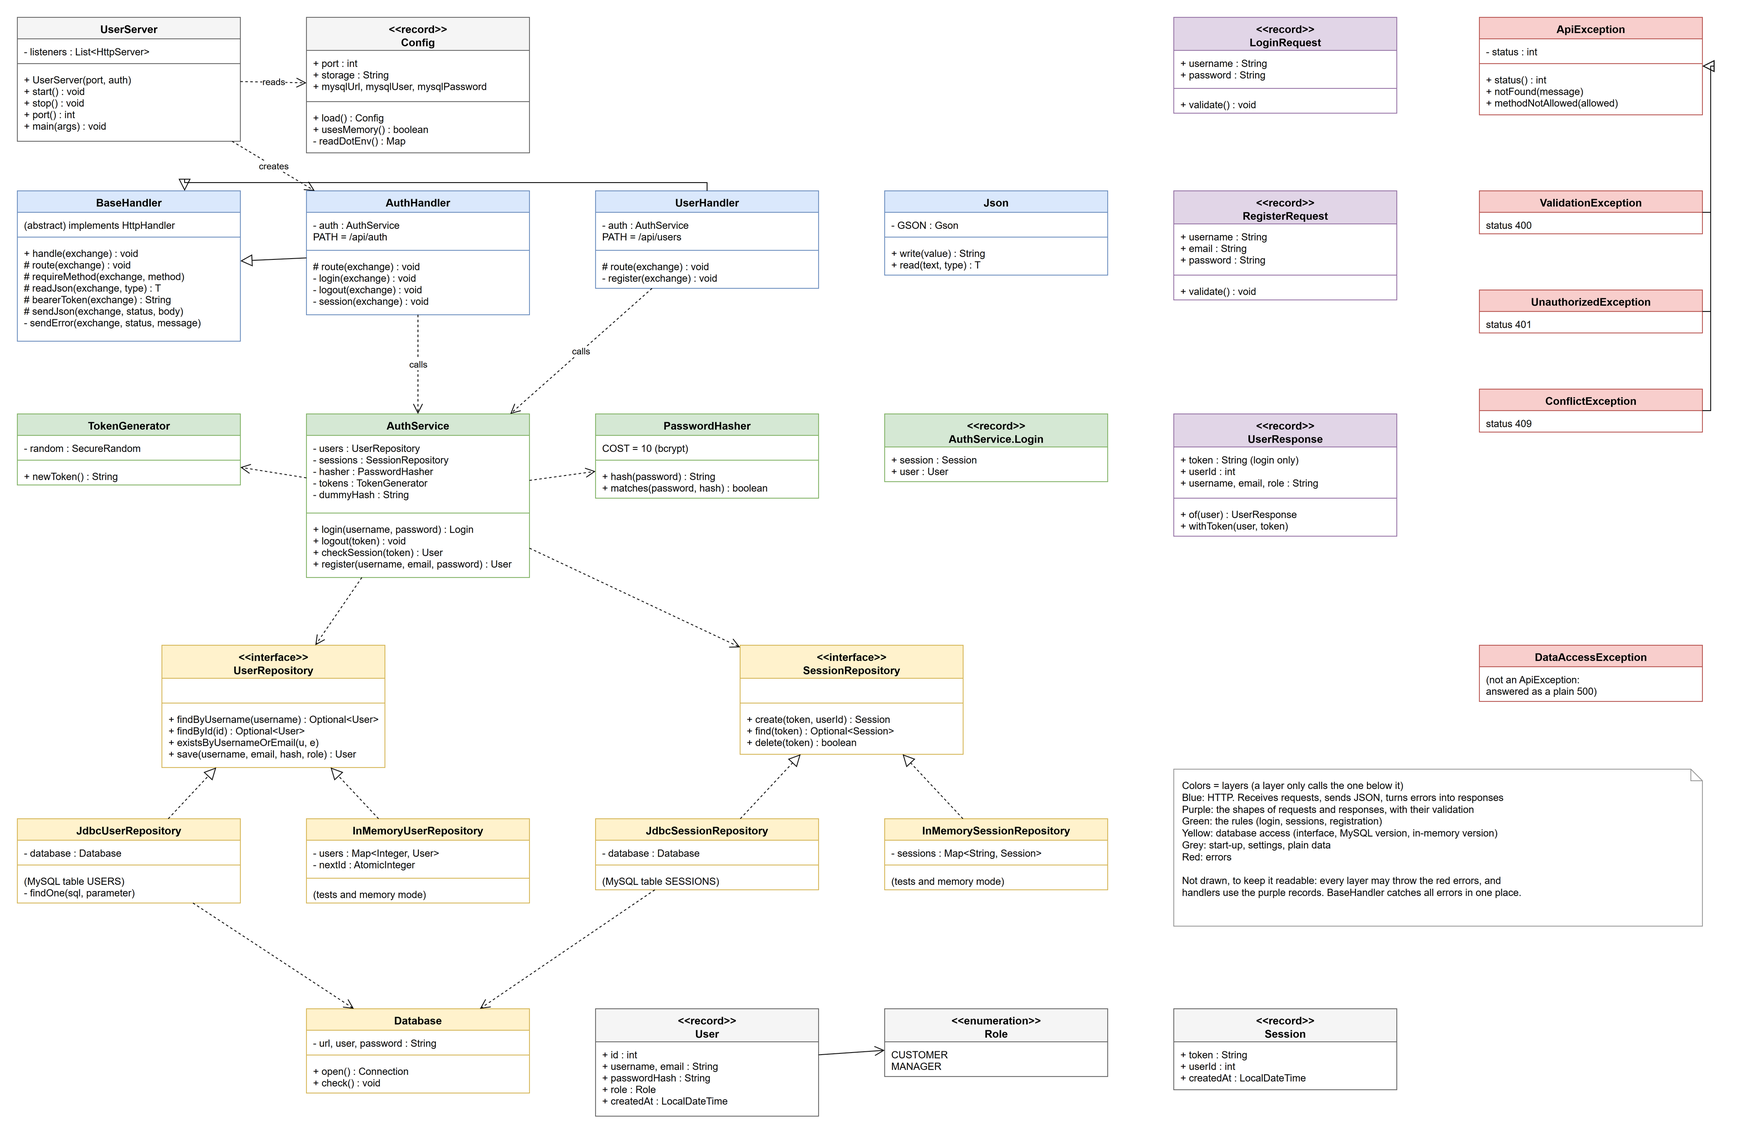
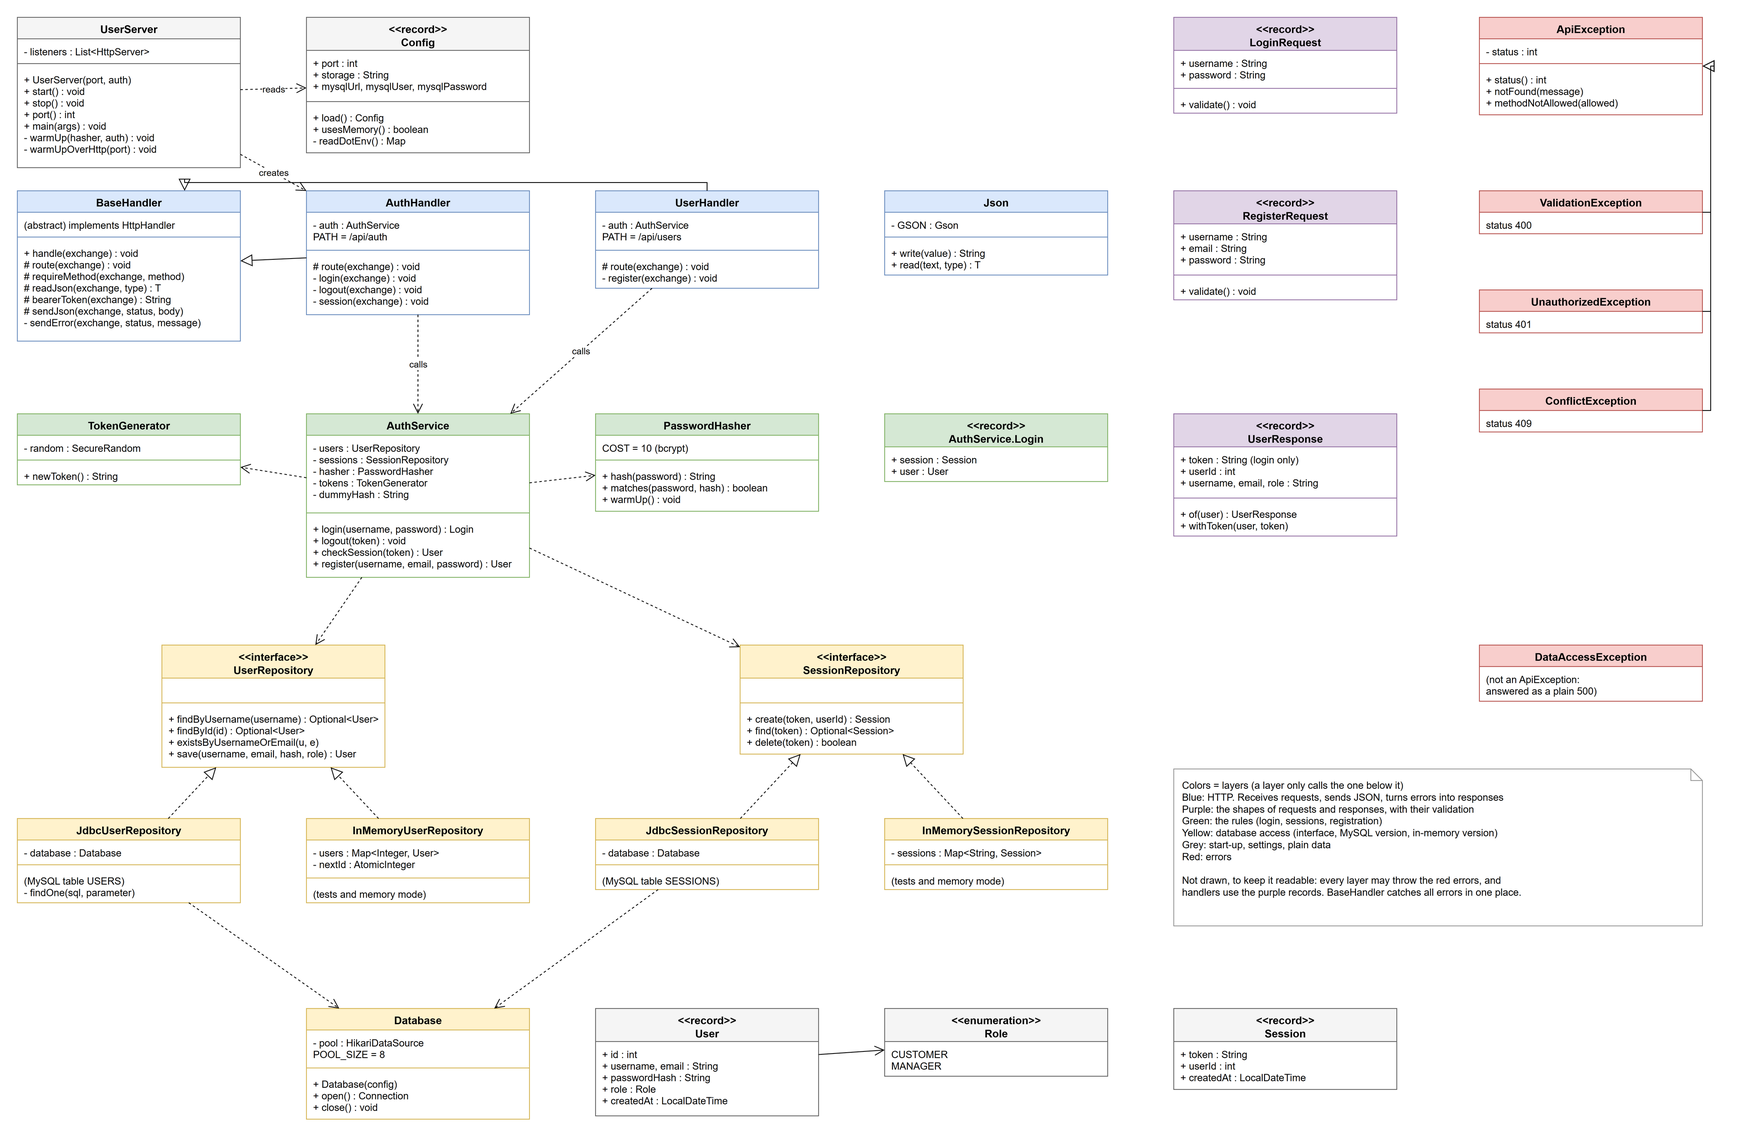
Verify user-service against MySQL and bring login well under 500 ms
The database now exists with a dedicated bookstore_app account. Run
against it, logins took 290-539 ms. Fixed in measured steps: the same
bcrypt cost in the seed script and the service, a connection pool
(HikariCP), and a warm-up at start-up. Login is now 85-255 ms from a
cold start and a session check 7-19 ms. Logged as P-005, with the
class diagram updated for the changed classes.

diff --git a/services/user-service/src/main/java/com/bookstore/user/repository/Database.java b/services/user-service/src/main/java/com/bookstore/user/repository/Database.java
@@ -2,43 +2,66 @@ package com.bookstore.user.repository;
 
 import com.bookstore.user.config.Config;
 import com.bookstore.user.error.DataAccessException;
+import com.zaxxer.hikari.HikariConfig;
+import com.zaxxer.hikari.HikariDataSource;
 import java.sql.Connection;
-import java.sql.DriverManager;
 import java.sql.SQLException;
 
 /**
- * Opens connections to the MySQL database.
+ * Hands out connections to the MySQL database from a small pool.
  *
- * <p>Each repository method opens a connection, uses it, and closes it. That is
- * simple and correct for a service of this size; a connection pool can replace
- * this one class later without touching the repositories.
+ * <p>Opening a connection costs tens of milliseconds, and a login needs two
+ * queries. Opening one per query made the first login slower than the 500 ms
+ * that N1 allows (P-005). The pool opens a few connections once and lends
+ * them out: {@code close()} on a borrowed connection returns it to the pool.
+ *
+ * <p>This is the only class that knows a pool exists; the repositories just
+ * ask for a connection and close it.
  */
-public class Database {
+public class Database implements AutoCloseable {
 
-    private final String url;
-    private final String user;
-    private final String password;
+    /** Enough for the service's 8 worker threads, which each use one connection briefly. */
+    private static final int POOL_SIZE = 8;
 
+    /** How long a request waits for a free connection before failing, in milliseconds. */
+    private static final long WAIT_FOR_CONNECTION_MS = 3_000;
+
+    private final HikariDataSource pool;
+
+    /**
+     * Connects to MySQL. Fails here, at start-up, if the database cannot be
+     * reached, rather than on the first login.
+     *
+     * @throws DataAccessException if the database cannot be reached
+     */
     public Database(Config config) {
-        this.url = config.mysqlUrl();
-        this.user = config.mysqlUser();
-        this.password = config.mysqlPassword();
+        HikariConfig settings = new HikariConfig();
+        settings.setJdbcUrl(config.mysqlUrl());
+        settings.setUsername(config.mysqlUser());
+        settings.setPassword(config.mysqlPassword());
+        settings.setMaximumPoolSize(POOL_SIZE);
+        settings.setMinimumIdle(2);
+        settings.setConnectionTimeout(WAIT_FOR_CONNECTION_MS);
+        settings.setPoolName("user-service");
+        try {
+            this.pool = new HikariDataSource(settings);
+        } catch (RuntimeException e) {
+            throw new DataAccessException("Cannot connect to MySQL. Check that it is running and that services/.env has the right settings.", e);
+        }
     }
 
+    /** Borrows a connection. Always use it in try-with-resources so it goes back to the pool. */
     public Connection open() {
         try {
-            return DriverManager.getConnection(url, user, password);
+            return pool.getConnection();
         } catch (SQLException e) {
-            throw new DataAccessException("Cannot connect to MySQL", e);
+            throw new DataAccessException("Could not get a database connection", e);
         }
     }
 
-    /** Fails fast at start-up if the database cannot be reached, instead of on the first login. */
-    public void check() {
-        try (Connection connection = open()) {
-            connection.isValid(3);
-        } catch (SQLException e) {
-            throw new DataAccessException("Cannot connect to MySQL", e);
-        }
+    /** Closes every connection. Called when the service stops. */
+    @Override
+    public void close() {
+        pool.close();
     }
 }

diff --git a/services/user-service/src/main/java/com/bookstore/user/UserServer.java b/services/user-service/src/main/java/com/bookstore/user/UserServer.java
@@ -1,6 +1,7 @@
 package com.bookstore.user;
 
 import com.bookstore.user.config.Config;
+import com.bookstore.user.error.UnauthorizedException;
 import com.bookstore.user.http.AuthHandler;
 import com.bookstore.user.http.UserHandler;
 import com.bookstore.user.model.Role;
@@ -18,6 +19,10 @@ import com.sun.net.httpserver.HttpServer;
 import java.io.IOException;
 import java.net.InetAddress;
 import java.net.InetSocketAddress;
+import java.net.URI;
+import java.net.http.HttpClient;
+import java.net.http.HttpRequest;
+import java.net.http.HttpResponse;
 import java.util.ArrayList;
 import java.util.List;
 import java.util.concurrent.ExecutorService;
@@ -78,6 +83,40 @@ public class UserServer {
         return listeners.get(0).getAddress().getPort();
     }
 
+    /**
+     * Practises the slow paths once before the first real request: password
+     * hashing, and one login for a user that does not exist (which runs a
+     * database query and a password check, and changes nothing). Without it
+     * the first login after start-up took about 500 ms; N1 allows 500 (P-005).
+     */
+    private static void warmUp(PasswordHasher hasher, AuthService auth) {
+        hasher.warmUp();
+        try {
+            auth.login("warm-up-no-such-user", "warm-up");
+        } catch (UnauthorizedException expected) {
+            // Exactly what should happen: there is no such user.
+        }
+    }
+
+    /**
+     * Sends the running server one real request (a login that is refused), so
+     * that the HTTP and JSON code has also run once before a user arrives.
+     * If it fails, the service still works; only the first request is slower.
+     */
+    private static void warmUpOverHttp(int port) {
+        try {
+            HttpRequest request = HttpRequest.newBuilder(URI.create("http://127.0.0.1:" + port + AuthHandler.PATH + "/login"))
+                    .header("Content-Type", "application/json")
+                    .POST(HttpRequest.BodyPublishers.ofString("{\"username\":\"warm-up-no-such-user\",\"password\":\"warm-up\"}"))
+                    .build();
+            HttpClient.newHttpClient().send(request, HttpResponse.BodyHandlers.discarding());
+        } catch (IOException | RuntimeException e) {
+            LOG.fine("Warm-up request failed: " + e.getMessage());
+        } catch (InterruptedException e) {
+            Thread.currentThread().interrupt();
+        }
+    }
+
     public static void main(String[] args) throws IOException {
         Config config = Config.load();
         PasswordHasher hasher = new PasswordHasher();
@@ -93,13 +132,16 @@ public class UserServer {
             LOG.warning("Running in MEMORY mode: no database, test accounts only, nothing is kept after a restart");
         } else {
             Database database = new Database(config);
-            database.check();
+            Runtime.getRuntime().addShutdownHook(new Thread(database::close));
             users = new JdbcUserRepository(database);
             sessions = new JdbcSessionRepository(database);
         }
 
-        UserServer server = new UserServer(config.port(), new AuthService(users, sessions, hasher, new TokenGenerator()));
+        AuthService auth = new AuthService(users, sessions, hasher, new TokenGenerator());
+        warmUp(hasher, auth);
+        UserServer server = new UserServer(config.port(), auth);
         server.start();
+        warmUpOverHttp(server.port());
         LOG.info("user-service is listening on http://localhost:" + server.port());
     }
 }

diff --git a/services/user-service/src/main/java/com/bookstore/user/service/PasswordHasher.java b/services/user-service/src/main/java/com/bookstore/user/service/PasswordHasher.java
@@ -14,6 +14,22 @@ public class PasswordHasher {
     /** Work factor: each step up doubles the time to hash. 10 is the common default. */
     private static final int COST = 10;
 
+    /** How many practice checks {@link #warmUp} runs. */
+    private static final int WARM_UP_ROUNDS = 6;
+
+    /**
+     * Runs a few practice checks so the first real login is as fast as later ones.
+     *
+     * <p>Java runs code slowly until it has been used a few times. Without this,
+     * the first login after start-up took just over the 500 ms that N1 allows (P-005).
+     */
+    public void warmUp() {
+        String practice = hash("warm-up");
+        for (int i = 0; i < WARM_UP_ROUNDS; i++) {
+            matches("warm-up", practice);
+        }
+    }
+
     public String hash(String password) {
         return BCrypt.hashpw(password, BCrypt.gensalt(COST));
     }

diff --git a/database/seed.py b/database/seed.py
@@ -50,8 +50,9 @@ def seed_users():
     )
     cur = db.cursor()
     for username, email, password, role in TEST_USERS:
-        # prefix 2a so the hash is accepted by both Python and Java bcrypt libraries
-        hashed = bcrypt.hashpw(password.encode(), bcrypt.gensalt(prefix=b"2a")).decode()
+        # prefix 2a so the hash is accepted by both Python and Java bcrypt libraries;
+        # rounds=10 is the same cost user-service uses, which keeps login well under 500 ms (N1)
+        hashed = bcrypt.hashpw(password.encode(), bcrypt.gensalt(rounds=10, prefix=b"2a")).decode()
         cur.execute(
             "INSERT INTO users (username, email, password_hash, role) VALUES (%s, %s, %s, %s) "
             "ON DUPLICATE KEY UPDATE email = VALUES(email), password_hash = VALUES(password_hash), role = VALUES(role)",

diff --git a/docs/03-problems/problem-log.md b/docs/03-problems/problem-log.md
@@ -128,3 +128,33 @@ The server now listens on both `127.0.0.1` and `::1` (two listeners sharing the 
 
 **Lesson**
 Passing tests are not the same as working. Start the real program and call it the way a client will, and measure. The Flask services must listen on both addresses too.
+
+## P-005 — Login too close to the 500 ms limit against the real database
+
+- **Date found:** 2026-11-13
+- **Phase / milestone:** M3 Backend Services
+- **Issue:** #8
+- **Status:** Solved
+
+**What happened**
+In memory mode every request took under 150 ms. Against the real MySQL database, logins took 290–375 ms and the first login after start-up took 539 ms. N1 allows 500 ms. Session checks, which the other two services will make on every request, took about 75 ms.
+
+**Cause**
+Three separate things, found one at a time by measuring:
+
+1. The Python seed script hashed passwords with bcrypt cost 12; the Java service uses cost 10. Cost 12 is four times slower to check.
+2. Every query opened a new database connection (about 35 ms each), and a login needs two queries.
+3. Java runs code slowly the first few times. The first request paid for that in the hashing, database, HTTP, and JSON code all at once.
+
+**What we tried**
+1. Seed script changed to cost 10: logins dropped to about 200 ms, first login still 539 ms.
+2. Connection pool (HikariCP): session checks dropped from about 75 ms to 7–19 ms, first login 509 ms.
+3. Practice hashing at start-up: first login 430–470 ms. Under the limit, but too close.
+4. A practice login against the database at start-up: first login 258–495 ms. Better on average, still not reliable.
+5. One real request from the service to itself at start-up: first login 102–255 ms over four cold starts.
+
+**Solution**
+All of the above together: the same bcrypt cost on both sides, a connection pool, and a warm-up at start-up (`PasswordHasher.warmUp`, `UserServer.warmUp`, `UserServer.warmUpOverHttp`). The warm-up logs in as a user that does not exist, so it changes nothing.
+
+**Lesson**
+Test against the real database, not only the in-memory one, and measure from a cold start, because that is what a demo is. A number that passes with no margin is not a pass. Each fix was measured before the next was tried, which showed that no single change was enough.

diff --git a/docs/04-planning/milestones.md b/docs/04-planning/milestones.md
@@ -33,8 +33,9 @@ The live version of this plan is on GitHub: milestones hold the deadlines, issue
 ### M3 — Backend Services (due 2026-11-26)
 
 - [x] Install Java 21, Maven, MongoDB, and the Python packages; load the books into MongoDB
-- [ ] Create the MySQL database (needs the root password) and the three service projects
-- [x] user-service in Java HttpServer: login, logout, sessions, roles, bcrypt, registration (FR1, FR2, FR3, FR11, N3). 26 tests pass; still to run against MySQL
+- [x] Create the MySQL database, with a dedicated limited account for the services; load the test accounts
+- [ ] Create the book-service and order-service projects
+- [x] user-service in Java HttpServer: login, logout, sessions, roles, bcrypt, registration (FR1, FR2, FR3, FR11, N3). 26 tests pass; verified against MySQL
 - [ ] book-service in Python Flask: keyword search, add and update books (FR4, FR5, FR14)
 - [ ] order-service in Python Flask: orders, HTML bill, order list, payment status (FR6–FR9, FR12, FR13)
 
@@ -74,3 +75,4 @@ Add a short dated note whenever a milestone closes or a deadline moves, and say 
 | 2026-11-13 | Visual style approved. **M2 closed, v0.2.0 released**, six days before its deadline. Next: M3, the backend services. |
 | 2026-11-13 | M3 started. Java 21, Maven 3.9.9, and MongoDB 9.0 installed; books loaded into MongoDB and search checked. MySQL 8.0 was already installed; creating the database waits for the root password. Engineering rules written. |
 | 2026-11-13 | user-service built: 27 classes in four layers, 26 tests passing, every endpoint called on the running service. Found and fixed a 2-second delay on the first request (P-004). Not yet run against MySQL. |
+| 2026-11-13 | MySQL database created with a dedicated `bookstore_app` account; test accounts loaded. user-service verified against it. Measuring showed login too close to the 500 ms limit; fixed with a connection pool and a start-up warm-up (P-005). |

diff --git a/services/user-service/README.md b/services/user-service/README.md
@@ -47,7 +47,7 @@ Four layers; each only calls the one below ([engineering rules](../../docs/02-de
 |---|---|---|
 | `http`, `http.dto` | Receives requests, validates them, sends JSON, turns errors into responses | `BaseHandler`, `AuthHandler`, `UserHandler`, `Json`, `LoginRequest`, `RegisterRequest`, `UserResponse` |
 | `service` | The rules | `AuthService`, `PasswordHasher`, `TokenGenerator` |
-| `repository` | Database access | `UserRepository`, `SessionRepository`, and a MySQL and an in-memory version of each; `Database` |
+| `repository` | Database access | `UserRepository`, `SessionRepository`, and a MySQL and an in-memory version of each; `Database` (connection pool) |
 | `model` | Plain data | `User`, `Session`, `Role` |
 
 Plus `error` (the exceptions), `config.Config` (settings), and `UserServer` (start-up).
@@ -77,5 +77,13 @@ Handlers and services throw; `BaseHandler` catches everything in one place:
 
 ## Status
 
-All 26 tests pass, and every endpoint was called on the running service in memory mode (each answered in under 150 ms).
-**Not yet run against MySQL**: the `Jdbc...Repository` classes are written but untested until the database is created.
+Built and verified on 2026-11-13:
+
+- All 26 tests pass.
+- Every endpoint was called on the running service **against the real MySQL database**: login with the accounts created by the Python seed script, session check, wrong password, register, duplicate register, logout, session after logout.
+- Timings against MySQL, over four cold starts: login 85–255 ms (most of it is bcrypt, on purpose), session check 7–19 ms. N1 allows 500 ms.
+
+## Performance notes
+
+- Database connections come from a small pool (HikariCP) instead of being opened per query.
+- At start-up the service practises password hashing and sends itself one refused login, so the first real request is as fast as later ones. See P-005 in the problem log.

diff --git a/docs/02-design/class-diagrams.md b/docs/02-design/class-diagrams.md
@@ -94,7 +94,7 @@ An overview of all three services, drawn during design, is in [uml-diagrams.md](
 
 ### user-service
 
-Built. Every class is in the diagram.
+Built, and verified against the real MySQL database. Every class is in the diagram.
 
 ![user-service class diagram](diagrams/class-user-service.png)
 
@@ -104,7 +104,7 @@ File map (`services/user-service/src/main/java/com/bookstore/user/`):
 
 | File | Kind | Purpose |
 |---|---|---|
-| `UserServer.java` | Start-up | Builds the parts, connects them, listens on both loopback addresses |
+| `UserServer.java` | Start-up | Builds the parts, connects them, warms up, listens on both loopback addresses |
 | `config/Config.java` | Settings | Reads the port, storage mode, and MySQL settings from the environment or `.env` |
 | `http/BaseHandler.java` | HTTP | Shared by all handlers: reads JSON, reads the token, writes JSON, and turns every error into a response in one place |
 | `http/AuthHandler.java` | HTTP | `/api/auth/login`, `/logout`, `/session` |
@@ -122,7 +122,7 @@ File map (`services/user-service/src/main/java/com/bookstore/user/`):
 | `repository/JdbcSessionRepository.java` | Database | Sessions in MySQL |
 | `repository/InMemoryUserRepository.java` | Database | Users in memory, for tests and memory mode |
 | `repository/InMemorySessionRepository.java` | Database | Sessions in memory, for tests and memory mode |
-| `repository/Database.java` | Database | Opens MySQL connections |
+| `repository/Database.java` | Database | Lends out MySQL connections from a small pool |
 | `model/User.java`, `Session.java`, `Role.java` | Data | Plain data |
 | `error/ApiException.java` | Error | An error that is safe to show, with its HTTP status |
 | `error/ValidationException.java` | Error | 400 |

diff --git a/docs/02-design/architecture.md b/docs/02-design/architecture.md
@@ -70,6 +70,8 @@ Manager-only actions are refused unless the session belongs to a manager (FR11).
 | 8 | 2026-11-13 | Repositories are interfaces, each with a MySQL and an in-memory version | Classes that talk to MySQL directly | The rules can be tested without a database, and a service can be run before the database exists |
 | 9 | 2026-11-13 | Each service listens on both loopback addresses (127.0.0.1 and ::1), never on the network | IPv4 only | "localhost" can mean either; with only one, the first request waited about 2 seconds (P-004). Not listening on the network keeps the services private to this machine |
 | 10 | 2026-11-13 | The services use a dedicated MySQL account (`bookstore_app`) limited to the bookstore database | The root account | Least privilege: the services get only the access they need, and the root password never has to be stored or shared |
+| 11 | 2026-11-13 | user-service takes database connections from a pool and warms itself up at start-up | A new connection per query; no warm-up | Measured: a new connection per query made session checks about 75 ms and the first login over 500 ms. With the pool and warm-up they are under 20 ms and under 260 ms (P-005) |
+| 12 | 2026-11-13 | bcrypt cost 10 in both the Java service and the Python seed script | The Python default of 12 | The same cost on both sides; cost 12 made each login about 300 ms, leaving little room under N1 |
 
 ## Email settings (FR10)
 

diff --git a/CHANGELOG.md b/CHANGELOG.md
@@ -12,9 +12,10 @@ Work towards v0.3.0 (milestone M3, Backend services).
 - Class diagram and file map for the shared UI package
 - Sample books loaded into MongoDB
 - `database/make_local_setup.py`: generates a dedicated, limited MySQL account for the services, so the root password is never stored or shared
-- **user-service**: login, logout, session check, and registration (FR1, FR2, FR3, FR11), with bcrypt password hashing, one error format, and 26 tests
+- **user-service**: login, logout, session check, and registration (FR1, FR2, FR3, FR11), with bcrypt password hashing, one error format, and 26 tests; verified against MySQL
 
 ### Fixed
+- P-005: login was too close to the 500 ms limit against the real database; user-service now uses a connection pool and warms up at start-up (login 85–255 ms, session check 7–19 ms)
 - P-004: the first request to a service by the name `localhost` took over 2 seconds; services now listen on both loopback addresses
 
 ### Changed

diff --git a/docs/05-setup/environment.md b/docs/05-setup/environment.md
@@ -41,11 +41,13 @@ pip install flask mysql-connector-python pymongo bcrypt requests
 
 The 15 sample books are loaded and the indexes on `title` and `author` exist. Checked on 2026-11-13: a search for "java" returns 3 books.
 
-### MySQL — one command left, to be run by the machine's owner
+### MySQL — done
 
 The services do **not** use the MySQL root account. They log in as `bookstore_app`, an account that can only read and write the `bookstore` database. Its password is generated on this machine and kept in `services/.env`, which git ignores. The root password is typed once, by its owner, and is never stored or shared.
 
-1. Generate the local setup (already done on this machine; safe to repeat):
+Set up and checked on 2026-11-13: four tables, the `bookstore_app` account (confirmed unable to read other databases), and the two test accounts. To repeat it on another machine:
+
+1. Generate the local setup:
 
 ```bash
 python database/make_local_setup.py

diff --git a/database/README.md b/database/README.md
@@ -35,6 +35,6 @@ python database/seed.py
 ## Status
 
 - **MongoDB: loaded and checked** on 2026-11-13. 15 books, indexes on title and author, and a search for "java" returns 3 books.
-- **MySQL: not run yet.** Step 1 is done on the development machine; step 2 needs the MySQL root password, typed by its owner.
+- **MySQL: created and checked** on 2026-11-13. Four tables, the limited `bookstore_app` account, and the two test accounts. user-service logs in with them.
 
 Design: [database-design.md](../docs/02-design/database-design.md).
